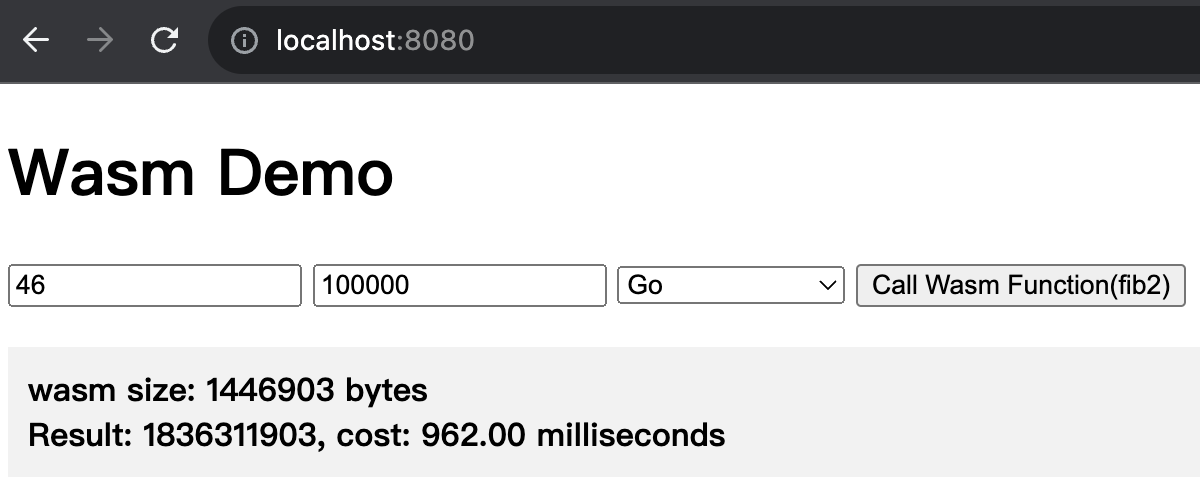
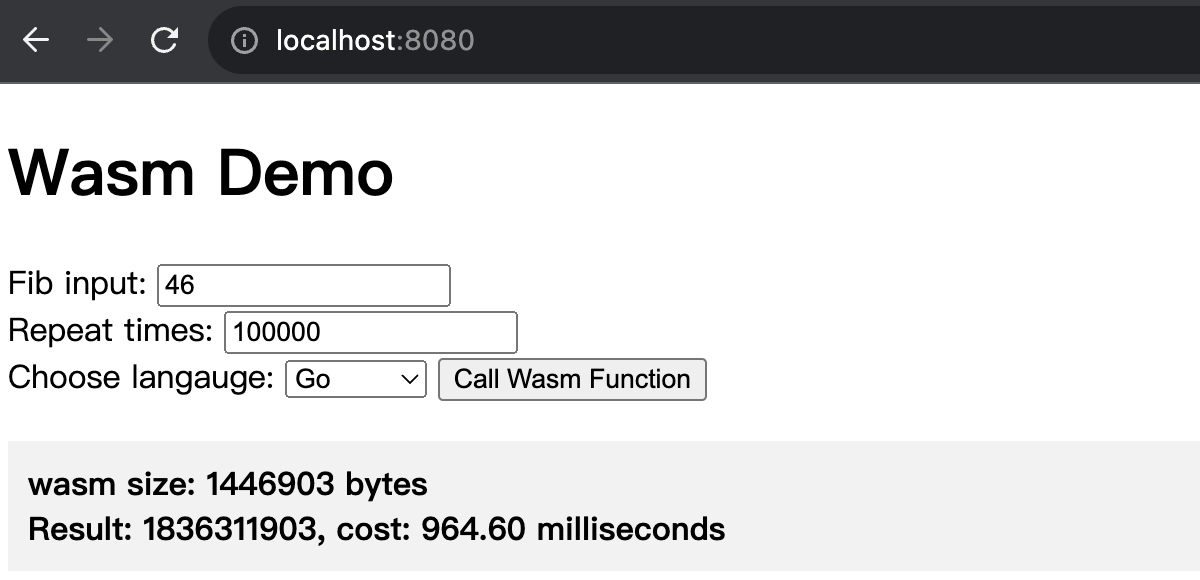
Add rust benchmark

diff --git a/benchmark/fibonacci/index.html b/benchmark/fibonacci/index.html
@@ -17,18 +17,18 @@
   </head>
   <body>
     <h1>Wasm Demo</h1>
-    <label for="inputValue">Fibonacci input:</label>
+    <label for="inputValue">Fib input: </label>
     <input type="number" id="inputValue" placeholder="number" value="46" />
     <br />
-    <label for="loopsValue">Repeating times:</label>
+    <label for="loopsValue">Repeat times: </label>
     <input type="number" id="loopsValue" placeholder="loops" value="100000" />
     <br />
-    <label for="lang-select">Choose language:</label>
+    <label for="lang-select">Choose langauge: </label>
     <select name="languages" id="lang-select">
       <option value="moonbit">MoonBit</option>
       <option value="golang">Go</option>
+      <option value="rust">Rust</option>
     </select>
-    <br />
     <button id="run">Call Wasm Function</button>
     <div id="result"></div>
     <script src="wasm_exec.js"></script>

diff --git a/benchmark/fibonacci/fib-rust/src/main.rs b/benchmark/fibonacci/fib-rust/src/main.rs
@@ -1,0 +1,19 @@
+#![no_std]
+#![no_main]
+
+#[panic_handler]
+fn panic(_: &core::panic::PanicInfo) -> ! {
+    loop {}
+}
+
+#[no_mangle]
+pub extern "C" fn fib2(n: i32) -> i32 {
+  fn aux(n: i32, acc1: i32, acc2: i32) -> i32 {
+    match n {
+        0 => acc1,
+        1 => acc2,
+        _ => aux(n-1, acc2, acc1+acc2)
+    }
+  }
+  aux(n, 0, 1)
+}

diff --git a/benchmark/fibonacci/README.md b/benchmark/fibonacci/README.md
@@ -22,7 +22,7 @@ pub func fib2(num : Int) -> Int {
 
 Then use [wat2wasm](https://github.com/WebAssembly/wabt) from the WebAssembly Binary Toolkit (WABT) to convert the WebAssembly text format (.wat) to the WebAssembly binary format (.wasm):
 
-```
+``` sh
 wat2wasm target/build/main/main.wat -o moonbit.wasm
 ```
 
@@ -34,18 +34,28 @@ Start a web server with `python3 -m http.server 8080`, and we can now test the b
 
 ### Golang
 
-**CAUTION: Do not use the `wasm_exec.js` in the current folder.**, copy your own from `GOROOT`:
+**CAUTION: Do not use the `wasm_exec.js` in the current folder.** Copy your own from `GOROOT`:
 
-```
+``` sh
 cp "$(go env GOROOT)/misc/wasm/wasm_exec.js" $PWD
 ```
 
 Build `golang.wasm`
 
-```
+``` sh
 GOOS=js GOARCH=wasm go build -o golang.wasm ./main.go
 ```
-
-Start a web server with `python3 -m http.server 8080`, and we can now test the benchmark of GO by browsing http://127.0.0.1:8080/
+Start a web server with `python3 -m http.server 8080`, and we can now test the benchmark of GO by browsing http://127.0.0.1:8080/moonbit.html
 
 <img width="600" src="imgs/golang_bench.png">
+
+### Rust
+
+``` sh
+rustup target add wasm32-unknown-unknown
+cd fib-rust
+cargo build --target wasm32-unknown-unknown --release
+mv target/wasm32-unknown-unknown/release/fib-rust.wasm ../rust.wasm
+```
+
+<img width="600" src="imgs/rust_bench.png">
